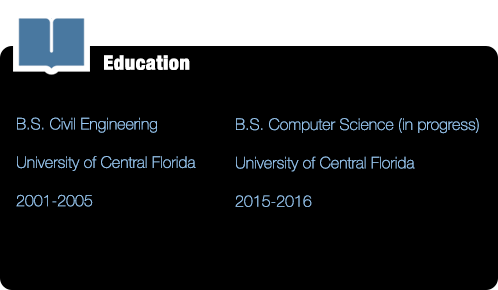
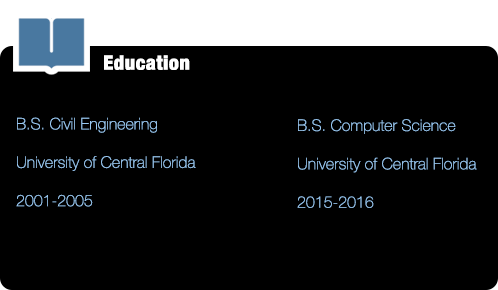
Adds Stay in the light to the site, and adjusts the education section not to say 'in progress' anymore.

Changed region(s): [[0.4518, 0.5276, 0.9639, 0.5897], [0.4518, 0.4034, 0.9639, 0.4655], [0.4518, 0.6517, 0.753, 0.7138]]

diff --git a/js/categories.js b/js/categories.js
@@ -13,6 +13,86 @@ var categories =
         return this[Object.keys(this)[n]];
     }}
 };
+categories.games.stayInTheLightGame = "" + 
+	"<div id='stay-in-the-light-header' class='panel-heading'>" +
+		"<a class='panel-title' onclick='setPanelToTop(\"stay-in-the-light-header\")'>" +
+			"<h3 href='#stay-in-the-light' class='accordion-toggle' data-toggle='collapse' data-parent='#accordion-projects'>Stay in the Light</h3>" +
+		"</a>" +
+	"</div>" +
+	"<div id='stay-in-the-light' class='panel-collapse collapse'>" +
+		"<div class='panel-body'>" +
+			"<div class='row row-body'>" +
+				"<div class='col-lg-6 col-lg-offset-1 col-md-6 col-md-offset-1 col-sm-6 col-sm-offset-1 col-xs-12 pull-right'>" +
+					"<!-- Carousel for screenshots -->" +
+					"<div id='stay-in-the-light-carousel' class='carousel slide' data-ride='carousel' data-interval='2500'>" +
+						"<!-- Indicators -->" +
+						"<ol class='carousel-indicators'>" +
+							"<li data-target='#stay-in-the-light-carousel' data-slide-to='0' class='active'></li>" +
+							"<li data-target='#stay-in-the-light-carousel' data-slide-to='1'></li>" +
+							"<li data-target='#stay-in-the-light-carousel' data-slide-to='2'></li>" +
+							"<li data-target='#stay-in-the-light-carousel' data-slide-to='3'></li>" +
+							"<li data-target='#stay-in-the-light-carousel' data-slide-to='4'></li>" +
+							"<li data-target='#stay-in-the-light-carousel' data-slide-to='5'></li>" +
+							"<li data-target='#stay-in-the-light-carousel' data-slide-to='6'></li>" +
+							"<li data-target='#stay-in-the-light-carousel' data-slide-to='7'></li>" +
+							"<li data-target='#stay-in-the-light-carousel' data-slide-to='8'></li>" +
+							"<li data-target='#stay-in-the-light-carousel' data-slide-to='9'></li>" +
+							"<li data-target='#stay-in-the-light-carousel' data-slide-to='11'></li>" +
+						"</ol>" +
+						"<!-- Wrapper for slides -->" +
+						"<div class='carousel-inner' role='listbox'>" +
+							"<div class='item active'>" +
+								"<img src='images/stay-in-the-light-screenshots-01.jpg' alt='Stay in the Light - Screenshot' class='img-responsive img-rounded centered'>" +
+							"</div>" +
+							"<div class='item'>" +
+								"<img src='images/stay-in-the-light-screenshots-02.jpg' alt='Stay in the Light - Screenshot' class='img-responsive img-rounded centered'>" +
+							"</div>" +
+							"<div class='item'>" +
+								"<img src='images/stay-in-the-light-screenshots-03.jpg' alt='Stay in the Light - Screenshot' class='img-responsive img-rounded centered'>" +
+							"</div>" +
+							"<div class='item'>" +
+								"<img src='images/stay-in-the-light-screenshots-04.jpg' alt='Stay in the Light - Screenshot' class='img-responsive img-rounded centered'>" +
+							"</div>" +
+							"<div class='item'>" +
+								"<img src='images/stay-in-the-light-screenshots-05.jpg' alt='Stay in the Light - Screenshot' class='img-responsive img-rounded centered'>" +
+							"</div>" +
+							"<div class='item'>" +
+								"<img src='images/stay-in-the-light-screenshots-06.jpg' alt='Stay in the Light - Screenshot' class='img-responsive img-rounded centered'>" +
+							"</div>" +
+							"<div class='item'>" +
+								"<img src='images/stay-in-the-light-screenshots-07.jpg' alt='Stay in the Light - Screenshot' class='img-responsive img-rounded centered'>" +
+							"</div>" +
+							"<div class='item'>" +
+								"<img src='images/stay-in-the-light-screenshots-08.jpg' alt='Stay in the Light - Screenshot' class='img-responsive img-rounded centered'>" +
+							"</div>" +
+							"<div class='item'>" +
+								"<img src='images/stay-in-the-light-screenshots-09.jpg' alt='Stay in the Light - Screenshot' class='img-responsive img-rounded centered'>" +
+							"</div>" +
+							"<div class='item'>" +
+								"<img src='images/stay-in-the-light-screenshots-10.jpg' alt='Stay in the Light - Screenshot' class='img-responsive img-rounded centered'>" +
+							"</div>" +
+							"<div class='item'>" +
+								"<img src='images/stay-in-the-light-screenshots-11.jpg' alt='Stay in the Light - Screenshot' class='img-responsive img-rounded centered'>" +
+							"</div>" +
+							"<div class='item'>" +
+								"<img src='images/stay-in-the-light-screenshots-12.jpg' alt='Stay in the Light - Screenshot' class='img-responsive img-rounded centered'>" +
+							"</div>" +
+						"</div>" +
+					"</div>" +
+				"</div>" +
+				"<div class='col-lg-5 col-md-5 col-sm-5 col-xs-12'>" +
+					"<h4>Stay in the Light <span>(11/2017)</span></h4>" +
+					"<h5>-- HTML, JavaScript, PIXI, PHP, AJAX, &amp; MySQL --</h5>" +
+					"<p>A classic light vs dark race to conquer the map with a shout back to the days of pixelated graphics. Player moves from tile " +
+					"to tile spreading 'Light' while enemy units scurry to spread the darkness. Only when completely encompassing an enemy unit in light " +
+					"can they be killed, and only when the light has been turned entirely light can there be victory. Higher difficulties in quicker time " +
+					"wins better scores. Compete with others for the top.</p>" +
+					"<a href='https://tenaciousteal.com/games/stay-in-the-light/' target='_blank' class='btn btn-danger'>Click to play this game <span class='glyphicon glyphicon-circle-arrow-right'></span></a>" +
+				"</div>" +
+			"</div>" +
+		"</div>" +
+	"</div>";
+
 categories.games.galacticFighterGame = "" + 
 	"<div id='galactic-fighter-header' class='panel-heading'>" +
 		"<a class='panel-title' onclick='setPanelToTop(\"galactic-fighter-header\")'>" +
@@ -35,8 +115,6 @@ categories.games.galacticFighterGame = "" +
 							"<li data-target='#galactic-fighter-carousel' data-slide-to='5'></li>" +
 							"<li data-target='#galactic-fighter-carousel' data-slide-to='6'></li>" +
 							"<li data-target='#galactic-fighter-carousel' data-slide-to='7'></li>" +
-							"<li data-target='#galactic-fighter-carousel' data-slide-to='8'></li>" +
-							"<li data-target='#galactic-fighter-carousel' data-slide-to='9'></li>" +
 						"</ol>" +
 						"<!-- Wrapper for slides -->" +
 						"<div class='carousel-inner' role='listbox'>" +
@@ -831,6 +909,20 @@ categories.frontend.phoodBuddyFrontEnd = "" +
 							"<li data-target='#phood-buddy-carousel' data-slide-to='5'></li>" +
 							"<li data-target='#phood-buddy-carousel' data-slide-to='6'></li>" +
 							"<li data-target='#phood-buddy-carousel' data-slide-to='7'></li>" +
+							"<li data-target='#phood-buddy-carousel' data-slide-to='8'></li>" +
+							"<li data-target='#phood-buddy-carousel' data-slide-to='9'></li>" +
+							"<li data-target='#phood-buddy-carousel' data-slide-to='10'></li>" +
+							"<li data-target='#phood-buddy-carousel' data-slide-to='11'></li>" +
+							"<li data-target='#phood-buddy-carousel' data-slide-to='12'></li>" +
+							"<li data-target='#phood-buddy-carousel' data-slide-to='13'></li>" +
+							"<li data-target='#phood-buddy-carousel' data-slide-to='14'></li>" +
+							"<li data-target='#phood-buddy-carousel' data-slide-to='15'></li>" +
+							"<li data-target='#phood-buddy-carousel' data-slide-to='16'></li>" +
+							"<li data-target='#phood-buddy-carousel' data-slide-to='17'></li>" +
+							"<li data-target='#phood-buddy-carousel' data-slide-to='18'></li>" +
+							"<li data-target='#phood-buddy-carousel' data-slide-to='19'></li>" +
+							"<li data-target='#phood-buddy-carousel' data-slide-to='20'></li>" +
+							"<li data-target='#phood-buddy-carousel' data-slide-to='21'></li>" +
 						"</ol>" +
 						"<!-- Wrapper for slides -->" +
 						"<div class='carousel-inner' role='listbox'>" +

diff --git a/index.html b/index.html
@@ -60,6 +60,7 @@
 				<li><a href="#projects" onclick="jumpTo()">Projects</a></li>
 				<li class="dropdown"><a href="#" data-toggle="dropdown">Code <span class="caret"></span></a>
 					<ul class="dropdown-menu">
+						<li><a href="https://github.com/WilliamRADFunk/stay-in-the-light" target="_blank">Stay in the Light</a></li>
 						<li><a href="https://github.com/WilliamRADFunk/galactic-fighter" target="_blank">Galactic Fighter</a></li>
 						<li><a href="https://github.com/WilliamRADFunk/phood-buddy" target="_blank">Phood Buddy</a></li>
 						<li><a href="https://github.com/WilliamRADFunk/planetary-defense/commits/master" target="_blank">Planetary Defense</a></li>
@@ -100,13 +101,12 @@
 			<p>Software Engineering at its finest is robust, clean, and creates a seemless connection between the user's intent and a program's output. It's my strongest desire to excel in all three areas of the craft, and to do so with the highest integrity and security possible.</p>
 		</div>
 		<div id="featured-img" class="col-lg-4 col-lg-offset-1 col-md-4 col-md-offset-1 col-sm-12 col-xs-12">
-			<img src="images/img_featuredApplication04.png" alt="Newest Application - Planetary Defense" class="img-responsive">
+			<img src="images/img_featuredApplication05.jpg" alt="Newest Application - Planetary Defense" class="img-responsive">
 		</div>
 		<div class="col-lg-2 col-lg-offset-1 col-md-2 col-md-offset-1 col-sm-12 col-xs-12">
-			<h4>Planetary Defense</h4>
-			<h5>A 2D base defender game where player moves concentric rings as expendable barriers to intercept asteroids traveling at random vectors.</h5>
-			<p>See project notes: <a href="http://www.williamrobertfunk.com/chronicles/planetary-defense-chronicle.html" target="_blank">&lt;Chronicle&gt;</a></p>
-			<a href="http://www.williamrobertfunk.com/applications/planetary-defense/index.html" target="_blank" class="btn btn-danger">Click to play this game</a>
+			<h4>Stay in the Light</h4>
+			<h5>A classic light vs dark race to conquer the map with a shout back to the days of pixelated graphics.</h5></p>
+			<a href="https://tenaciousteal.com/games/stay-in-the-light/" target="_blank" class="btn btn-danger">Click to play this game</a>
 		</div>
 	</div>
 	<div id="about" class="row row-body subheader">
